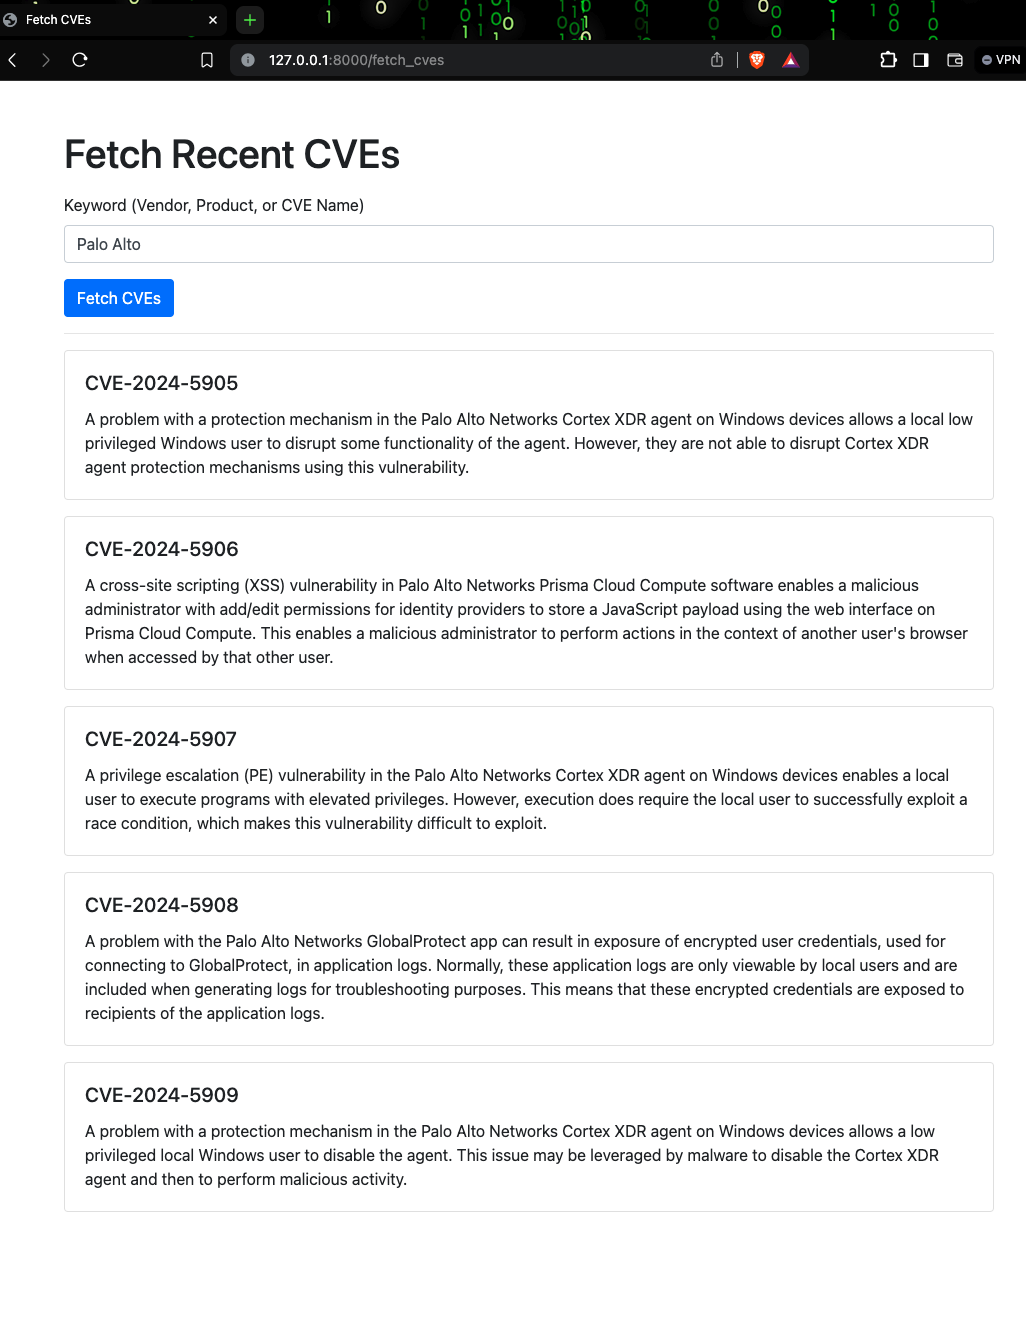
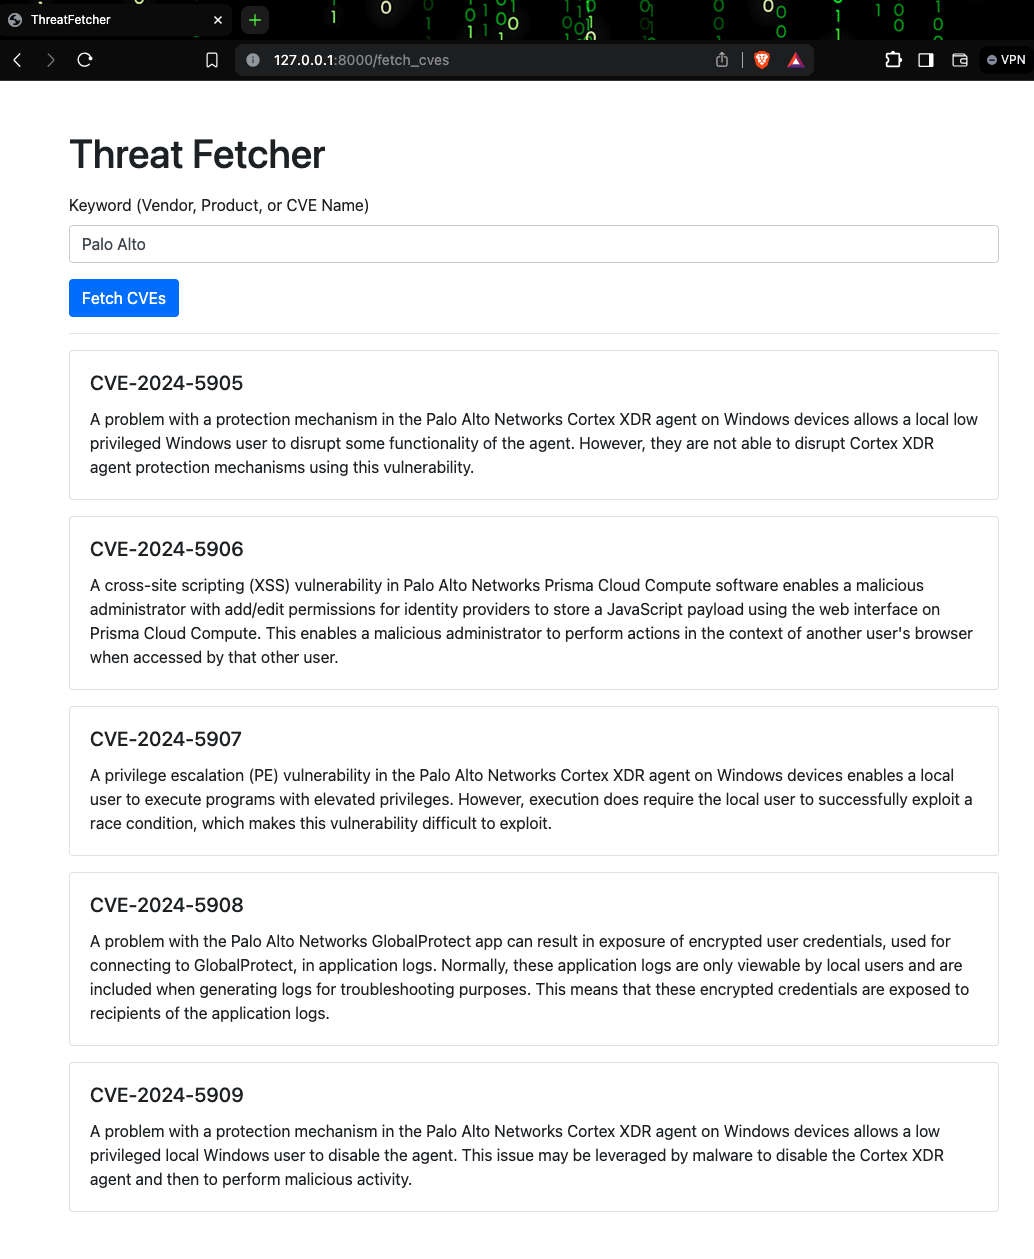
renamed project

diff --git a/alt/index.html b/alt/index.html
@@ -3,12 +3,12 @@
 <head>
   <meta charset="utf-8">
   <meta name="viewport" content="width=device-width, initial-scale=1, shrink-to-fit=no">
-  <title>Fetch CVEs</title>
+  <title>ThreatFetcher</title>
   <link href="https://stackpath.bootstrapcdn.com/bootstrap/4.5.2/css/bootstrap.min.css" rel="stylesheet">
 </head>
 <body>
   <div class="container">
-    <h1 class="mt-5">Fetch Recent CVEs</h1>
+    <h1 class="mt-5">Threat Fetcher</h1>
     <form action="/fetch_cves" method="post" class="mt-3">
       <div class="form-group">
         <label for="keyword">Keyword (Vendor, Product, or CVE Name)</label>

diff --git a/index.html b/index.html
@@ -3,12 +3,12 @@
 <head>
   <meta charset="utf-8">
   <meta name="viewport" content="width=device-width, initial-scale=1, shrink-to-fit=no">
-  <title>Fetch CVEs</title>
+  <title>ThreatFetcher</title>
   <link href="https://stackpath.bootstrapcdn.com/bootstrap/4.5.2/css/bootstrap.min.css" rel="stylesheet">
 </head>
 <body>
   <div class="container">
-    <h1 class="mt-5">Fetch Recent CVEs</h1>
+    <h1 class="mt-5">Threat Fetcher</h1>
     <form action="/fetch_cves" method="post" class="mt-3">
       <div class="form-group">
         <label for="keyword">Keyword (Vendor, Product, or CVE Name)</label>

diff --git a/alt/server.py b/alt/server.py
@@ -86,12 +86,12 @@ class CustomHandler(http.server.SimpleHTTPRequestHandler):
             response_content = f"""
             <html>
                 <head>
-                    <title>Fetch CVEs</title>
+                    <title>ThreatFetcher</title>
                     <link href="https://stackpath.bootstrapcdn.com/bootstrap/4.5.2/css/bootstrap.min.css" rel="stylesheet">
                 </head>
                 <body>
                     <div class="container">
-                        <h1 class="mt-5">Fetch Recent CVEs</h1>
+                        <h1 class="mt-5">Threat Fetcher</h1>
                         <form action="/fetch_cves" method="post" class="mt-3">
                             <div class="form-group">
                                 <label for="keyword">Keyword (Vendor, Product, or CVE Name)</label>

diff --git a/app.py b/app.py
@@ -93,12 +93,12 @@ class CustomHandler(http.server.SimpleHTTPRequestHandler):
             response_content = f"""
             <html>
                 <head>
-                    <title>Fetch CVEs</title>
+                    <title>ThreatFetcher</title>
                     <link href="https://stackpath.bootstrapcdn.com/bootstrap/4.5.2/css/bootstrap.min.css" rel="stylesheet">
                 </head>
                 <body>
                     <div class="container">
-                        <h1 class="mt-5">Fetch Recent CVEs</h1>
+                        <h1 class="mt-5">Threat Fetcher</h1>
                         <form action="/fetch_cves" method="post" class="mt-3">
                             <div class="form-group">
                                 <label for="keyword">Keyword (Vendor, Product, or CVE Name)</label>

diff --git a/README.md b/README.md
@@ -1,4 +1,4 @@
-# CVE Fetcher
+# ThreatFetcher
 
 This project is a simple web application that fetches and displays recent Common Vulnerabilities and Exposures (CVEs) based on a keyword search. The application uses the NVD API to retrieve CVEs and presents them in a user-friendly format using Bootstrap.
 
